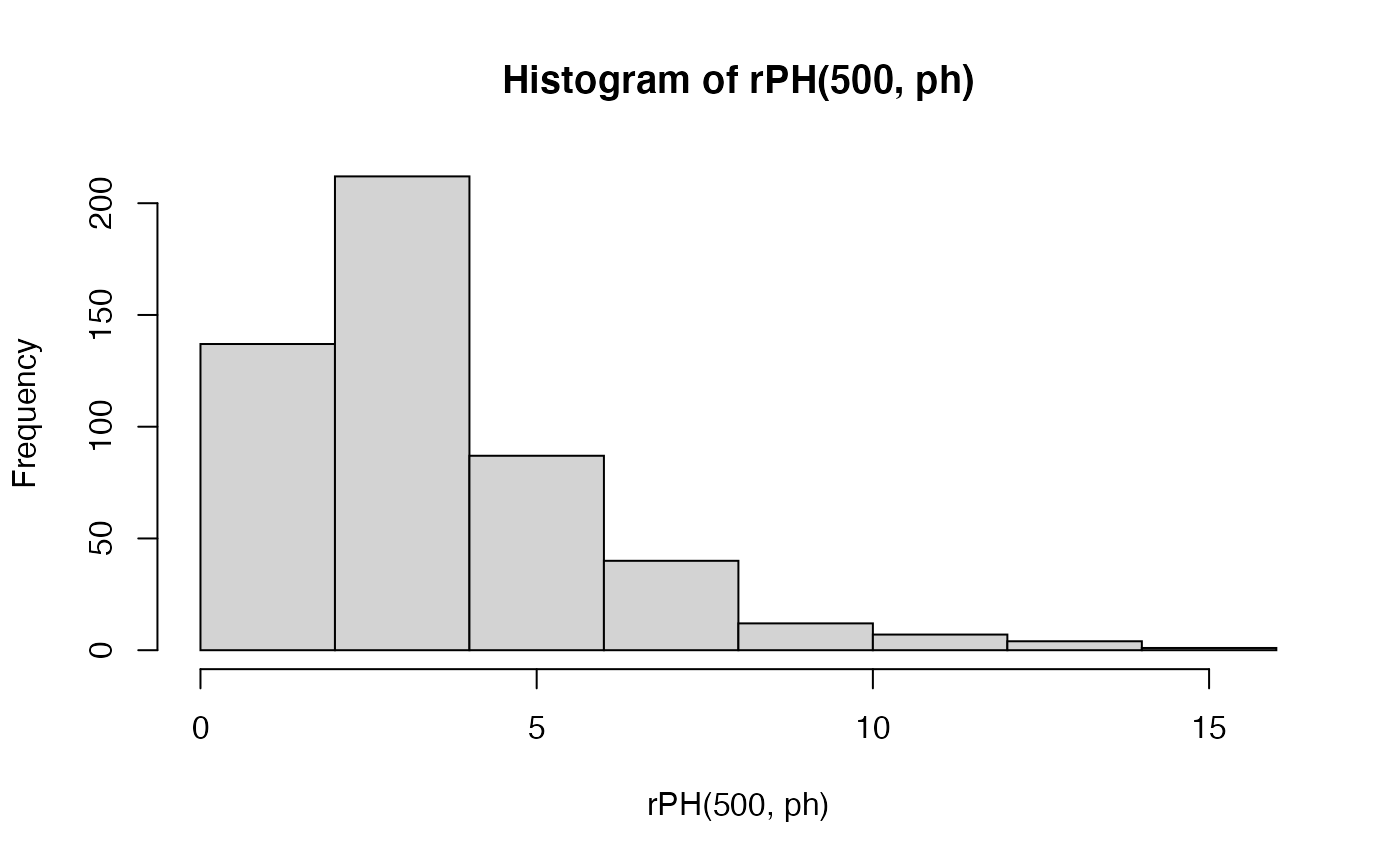
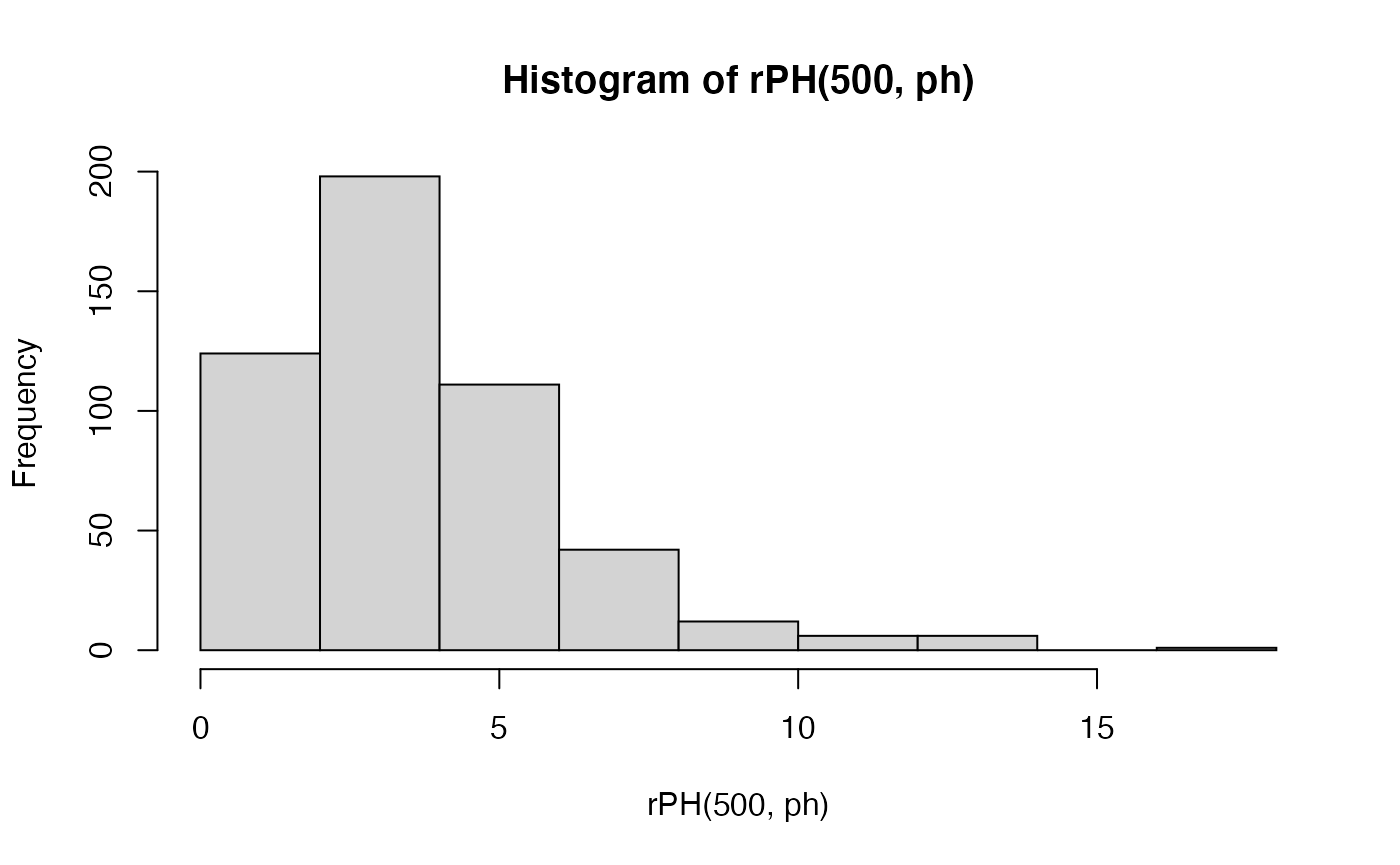
Fix typos and update version number.

diff --git a/docs/articles/a2_pop_gen_iker.html b/docs/articles/a2_pop_gen_iker.html
@@ -31,7 +31,7 @@
       </button>
       <span class="navbar-brand">
         <a class="navbar-link" href="../index.html">PhaseTypeR</a>
-        <span class="version label label-default" data-toggle="tooltip" data-placement="bottom" title="Released version">0.1.0</span>
+        <span class="version label label-default" data-toggle="tooltip" data-placement="bottom" title="Released version">1.0.0</span>
       </span>
     </div>
 
@@ -254,8 +254,8 @@
 <p><span class="math display">\[
 T_{total} = T_{MRCA} \circ [n, n-1, ..., 2]
 \]</span></p>
-<p>Indeed the core of the subintensity matrix for <span class="math inline">\(T_{MRCA}\)</span> and <span class="math inline">\(T_{Total}\)</span> is the same. But when <span class="math inline">\(T_{MRCA}\)</span> measure the time to reach the MRCA, so the length of one branch, <span class="math inline">\(T_{Total}\)</span> will measure the length of all branches. This leads to proceed to a reward transformation of the original subintensity matrix.</p>
-<p>The reward-transformation is a way to give more weights to some states than other. So the first state of the subintensity matrix should have a rate of <span class="math inline">\(n\)</span>, because before any coalescent event there are <span class="math inline">\(n\)</span> lineages, then the second state a rate of <span class="math inline">\(n-1\)</span> and so on.</p>
+<p>Indeed the core of the sub-intensity matrix for <span class="math inline">\(T_{MRCA}\)</span> and <span class="math inline">\(T_{Total}\)</span> is the same. But when <span class="math inline">\(T_{MRCA}\)</span> measure the time to reach the MRCA, so the length of one branch, <span class="math inline">\(T_{Total}\)</span> will measure the length of all branches. This leads to proceed to a reward transformation of the original sub-intensity matrix.</p>
+<p>The reward-transformation is a way to give more weights to some states than other. So the first state of the sub-intensity matrix should have a rate of <span class="math inline">\(n\)</span>, because before any coalescent event there are <span class="math inline">\(n\)</span> lineages, then the second state a rate of <span class="math inline">\(n-1\)</span> and so on.</p>
 <p>Therefore, <span class="math inline">\(T_{total}\)</span> can be represented as a reward-transformed <span class="math inline">\(T_{MRCA}\)</span>, where the reward vector is <span class="math inline">\([n, n-1, ..., 2]\)</span>:</p>
 <div class="sourceCode" id="cb11"><pre class="downlit sourceCode r">
 <code class="sourceCode R"><span class="va">t_total_4_bis</span> <span class="op">&lt;-</span> <span class="fu"><a href="../reference/reward_phase_type.html">reward_phase_type</a></span><span class="op">(</span><span class="va">t_mrca_4</span>, <span class="fu"><a href="https://rdrr.io/r/base/c.html">c</a></span><span class="op">(</span><span class="fl">4</span>, <span class="fl">3</span>, <span class="fl">2</span><span class="op">)</span><span class="op">)</span>
@@ -687,7 +687,7 @@ T_{total} = T_{MRCA} \circ [n, n-1, ..., 2]
 \mathop{\mathbb{E}}[\xi_i]=\mathop{\mathbb{E}}[\mathop{\mathbb{E}}(\xi_i|Y_i)]=
 \mathop{\mathbb{E}}\left[ \frac{\theta}{2}Y_i \right]=\frac{\theta}{2}\mathop{\mathbb{E}}[Y_i]
 \]</span></p>
-<p>Each <span class="math inline">\(Y_i\)</span> can be represented using a univariate phase-type distribution. However, instead of defining each <span class="math inline">\(Y_i\)</span> individually, we can build a multivariate phase-type representation of the coalescent process, such that <span class="math inline">\(Y\sim MPH^*(\alpha, S, R)\)</span>, where <span class="math inline">\(\alpha\)</span> is the initial probability vector, <span class="math inline">\(S\)</span> is the sub-intensity matrix for the coalescent process and <span class="math inline">\(R\)</span> is the reward vector where each of the columns summarizes how the subintensity matrix should be transformed to obtain a phase-type representation of <span class="math inline">\(Y_i\)</span>.</p>
+<p>Each <span class="math inline">\(Y_i\)</span> can be represented using a univariate phase-type distribution. However, instead of defining each <span class="math inline">\(Y_i\)</span> individually, we can build a multivariate phase-type representation of the coalescent process, such that <span class="math inline">\(Y\sim MPH^*(\alpha, S, R)\)</span>, where <span class="math inline">\(\alpha\)</span> is the initial probability vector, <span class="math inline">\(S\)</span> is the sub-intensity matrix for the coalescent process and <span class="math inline">\(R\)</span> is the reward vector where each of the columns summarizes how the sub-intensity matrix should be transformed to obtain a phase-type representation of <span class="math inline">\(Y_i\)</span>.</p>
 <p>For example, when <span class="math inline">\(n=4\)</span>, the sub-intensity matrix for Kingman’s coalescent is:</p>
 <div class="sourceCode" id="cb41"><pre class="downlit sourceCode r">
 <code class="sourceCode R">

diff --git a/docs/articles/a3_phasetypeR_SFS.html b/docs/articles/a3_phasetypeR_SFS.html
@@ -31,7 +31,7 @@
       </button>
       <span class="navbar-brand">
         <a class="navbar-link" href="../index.html">PhaseTypeR</a>
-        <span class="version label label-default" data-toggle="tooltip" data-placement="bottom" title="Released version">0.1.0</span>
+        <span class="version label label-default" data-toggle="tooltip" data-placement="bottom" title="Released version">1.0.0</span>
       </span>
     </div>
 
@@ -208,7 +208,7 @@
 <span class="co"># create rate-matrix and state space for block counting process</span>
 <span class="va">ph_bcp</span> <span class="op">&lt;-</span> <span class="fu">block_counting_process</span><span class="op">(</span><span class="va">n</span><span class="op">)</span>
 
-<span class="co"># Obtain subintensity matrix</span>
+<span class="co"># Obtain sub-intensity matrix</span>
 <span class="va">subintensity_matrix</span> <span class="op">&lt;-</span> <span class="va">ph_bcp</span><span class="op">$</span><span class="va">subint_mat</span>
 <span class="va">rew_mat</span> <span class="op">&lt;-</span> <span class="va">ph_bcp</span><span class="op">$</span><span class="va">reward_mat</span></code></pre></div>
 <p>Next, we simulate random site frequency spectra.</p>
@@ -240,7 +240,7 @@ c_i = \frac{1}{\binom{n}{2}} i (n-i) - \frac{1}{\sum_{i=1}^{n-1} \frac{1}{i}} \,
   \mbox{Exp}[z^{c_1 \xi_1} z^{c_2 \xi_2} \dots z^{c_{n-1} \xi_{n-1}}] =
   \mathbf{e}_1^\ast \left( \lambda \Delta[\mathbf{A}(z^\mathbf{c}- \mathbf{e})] +\mathbf{T}\right)^{-1} \mathbf{T}\mathbf{e}
   =   \mathbf{e}_1^\ast \left( \mathbf{S}+ \lambda \Delta[\mathbf{A}(z^\mathbf{c}] \right)^{-1} \mathbf{T}\mathbf{e}
-\end{align*}\]</span> where <span class="math inline">\(\mathbf{T},\mathbf{A}\)</span> being respectively the subintensity matrix and reward matrix of the block counting process, <span class="math inline">\(\mathbf{e}= (1,1,\dots,1)^\ast\)</span> and <span class="math inline">\(\mathbf{S}= \mathbf{T}- \lambda \Delta \mathbf{A}\mathbf{e}\)</span>.</p>
+\end{align*}\]</span> where <span class="math inline">\(\mathbf{T},\mathbf{A}\)</span> being respectively the sub-intensity matrix and reward matrix of the block counting process, <span class="math inline">\(\mathbf{e}= (1,1,\dots,1)^\ast\)</span> and <span class="math inline">\(\mathbf{S}= \mathbf{T}- \lambda \Delta \mathbf{A}\mathbf{e}\)</span>.</p>
 <p>The next snippet implements the <span class="math inline">\(\phi\)</span>-function</p>
 <div class="sourceCode" id="cb9"><pre class="downlit sourceCode r">
 <code class="sourceCode R"><span class="va">themean</span> <span class="op">&lt;-</span> <span class="fu"><a href="https://rdrr.io/r/base/sum.html">sum</a></span><span class="op">(</span><span class="fu"><a href="../reference/mean.html">mean</a></span><span class="op">(</span><span class="va">ph_bcp</span><span class="op">)</span><span class="op">*</span><span class="va">bc</span><span class="op">)</span> <span class="co">#the mean of the linear combination (should be 0)</span>
@@ -283,7 +283,7 @@ c_i = \frac{1}{\binom{n}{2}} i (n-i) - \frac{1}{\sum_{i=1}^{n-1} \frac{1}{i}} \,
 <div id="figure-5" class="section level2">
 <h2 class="hasAnchor">
 <a href="#figure-5" class="anchor"></a>Figure 5</h2>
-<p>In this section we recreate the bottom two sub-figures of Figure 4, and first we consider the bottom left figure, which displays the CDFs of the <span class="math inline">\(i\)</span>-ton branch-length for <span class="math inline">\(i = 1,2,3,4\)</span>. As described in Section 3, these branch-lengths all have (possibly defective) <span class="math inline">\(PH\)</span> distributions, whose sub-intensity matrix (and possible defect) can be calculated from the subintensity matrix and state-space of the block-counting process, so we first compute these two objects:</p>
+<p>In this section we recreate the bottom two sub-figures of Figure 4, and first we consider the bottom left figure, which displays the CDFs of the <span class="math inline">\(i\)</span>-ton branch-length for <span class="math inline">\(i = 1,2,3,4\)</span>. As described in Section 3, these branch-lengths all have (possibly defective) <span class="math inline">\(PH\)</span> distributions, whose sub-intensity matrix (and possible defect) can be calculated from the sub-intensity matrix and state-space of the block-counting process, so we first compute these two objects:</p>
 <div class="sourceCode" id="cb11"><pre class="downlit sourceCode r">
 <code class="sourceCode R"><span class="va">n</span> <span class="op">&lt;-</span> <span class="fl">5</span>
 

diff --git a/docs/articles/PhaseTypeR.html b/docs/articles/PhaseTypeR.html
@@ -31,7 +31,7 @@
       </button>
       <span class="navbar-brand">
         <a class="navbar-link" href="../index.html">PhaseTypeR</a>
-        <span class="version label label-default" data-toggle="tooltip" data-placement="bottom" title="Released version">0.1.0</span>
+        <span class="version label label-default" data-toggle="tooltip" data-placement="bottom" title="Released version">1.0.0</span>
       </span>
     </div>
 
@@ -316,8 +316,8 @@ F(u) = 1-\boldsymbol{\pi}e^{\boldsymbol{T}u}\boldsymbol{e}, \quad u\ge0.
 <div class="sourceCode" id="cb12"><pre class="downlit sourceCode r">
 <code class="sourceCode R"><span class="fu"><a href="https://rdrr.io/r/base/cat.html">cat</a></span><span class="op">(</span><span class="st">'10 random samples: \n'</span>, <span class="fu"><a href="../reference/PH_functions.html">rPH</a></span><span class="op">(</span><span class="fl">5</span>, <span class="va">ph</span><span class="op">)</span>, <span class="st">'\n'</span>, <span class="fu"><a href="../reference/PH_functions.html">rPH</a></span><span class="op">(</span><span class="fl">5</span>, <span class="va">ph</span><span class="op">)</span><span class="op">)</span>
 <span class="co">#&gt; 10 random samples: </span>
-<span class="co">#&gt;  1.767603 4.795308 5.240958 6.77238 4.274446 </span>
-<span class="co">#&gt;  7.657762 2.726458 13.01616 5.170599 2.083526</span></code></pre></div>
+<span class="co">#&gt;  2.232562 5.196198 1.958385 2.990807 1.528491 </span>
+<span class="co">#&gt;  5.470481 3.886641 3.929332 2.871024 4.453987</span></code></pre></div>
 <p>Here is a histogram of 200 samples from the phase-type distribution:</p>
 <div class="sourceCode" id="cb13"><pre class="downlit sourceCode r">
 <code class="sourceCode R"><span class="fu"><a href="https://rdrr.io/r/graphics/hist.html">hist</a></span><span class="op">(</span><span class="fu"><a href="../reference/PH_functions.html">rPH</a></span><span class="op">(</span><span class="fl">500</span>, <span class="va">ph</span><span class="op">)</span>, breaks <span class="op">=</span> <span class="fl">10</span><span class="op">)</span></code></pre></div>

diff --git a/docs/index.html b/docs/index.html
@@ -31,7 +31,7 @@
       </button>
       <span class="navbar-brand">
         <a class="navbar-link" href="index.html">PhaseTypeR</a>
-        <span class="version label label-default" data-toggle="tooltip" data-placement="bottom" title="Released version">0.1.0</span>
+        <span class="version label label-default" data-toggle="tooltip" data-placement="bottom" title="Released version">1.0.0</span>
       </span>
     </div>
 
@@ -138,7 +138,7 @@
 <div class="sourceCode" id="cb4"><pre class="downlit sourceCode r">
 <code class="sourceCode R"><span class="fu"><a href="reference/PH_functions.html">dPH</a></span><span class="op">(</span><span class="fl">1</span><span class="op">:</span><span class="fl">5</span>, <span class="va">ph</span><span class="op">)</span>
 <span class="co">#&gt; [1] 0.1506327 0.2216989 0.1991321 0.1482987 0.1009037</span></code></pre></div>
-<p>Cummulative density function:</p>
+<p>Cumulative density function:</p>
 <div class="sourceCode" id="cb5"><pre class="downlit sourceCode r">
 <code class="sourceCode R"><span class="fu"><a href="reference/PH_functions.html">pPH</a></span><span class="op">(</span><span class="fl">1</span><span class="op">:</span><span class="fl">5</span>, <span class="va">ph</span><span class="op">)</span>
 <span class="co">#&gt; [1] 0.07030638 0.26728005 0.48232823 0.65658059 0.78032198</span></code></pre></div>

diff --git a/docs/reference/check_phase_type.html b/docs/reference/check_phase_type.html
@@ -73,7 +73,7 @@ building a phase-type object have the right shape." />
       </button>
       <span class="navbar-brand">
         <a class="navbar-link" href="../index.html">PhaseTypeR</a>
-        <span class="version label label-default" data-toggle="tooltip" data-placement="bottom" title="Released version">0.1.0</span>
+        <span class="version label label-default" data-toggle="tooltip" data-placement="bottom" title="Released version">1.0.0</span>
       </span>
     </div>
 

diff --git a/docs/reference/var.html b/docs/reference/var.html
@@ -73,7 +73,7 @@ distributions generated by PH, DPH, MPH and  MDPH." />
       </button>
       <span class="navbar-brand">
         <a class="navbar-link" href="../index.html">PhaseTypeR</a>
-        <span class="version label label-default" data-toggle="tooltip" data-placement="bottom" title="Released version">0.1.0</span>
+        <span class="version label label-default" data-toggle="tooltip" data-placement="bottom" title="Released version">1.0.0</span>
       </span>
     </div>
 

diff --git a/docs/reference/mean.html b/docs/reference/mean.html
@@ -74,7 +74,7 @@ disc_phase_type and mult_cont_phase_type classes." />
       </button>
       <span class="navbar-brand">
         <a class="navbar-link" href="../index.html">PhaseTypeR</a>
-        <span class="version label label-default" data-toggle="tooltip" data-placement="bottom" title="Released version">0.1.0</span>
+        <span class="version label label-default" data-toggle="tooltip" data-placement="bottom" title="Released version">1.0.0</span>
       </span>
     </div>
 

diff --git a/docs/reference/generator_functions.html b/docs/reference/generator_functions.html
@@ -74,7 +74,7 @@ different phase-type distributions." />
       </button>
       <span class="navbar-brand">
         <a class="navbar-link" href="../index.html">PhaseTypeR</a>
-        <span class="version label label-default" data-toggle="tooltip" data-placement="bottom" title="Released version">0.1.0</span>
+        <span class="version label label-default" data-toggle="tooltip" data-placement="bottom" title="Released version">1.0.0</span>
       </span>
     </div>
 

diff --git a/docs/reference/reward_phase_type.html b/docs/reference/reward_phase_type.html
@@ -73,7 +73,7 @@ non-negative reward vector." />
       </button>
       <span class="navbar-brand">
         <a class="navbar-link" href="../index.html">PhaseTypeR</a>
-        <span class="version label label-default" data-toggle="tooltip" data-placement="bottom" title="Released version">0.1.0</span>
+        <span class="version label label-default" data-toggle="tooltip" data-placement="bottom" title="Released version">1.0.0</span>
       </span>
     </div>
 

diff --git a/docs/reference/phase_type_to_network.html b/docs/reference/phase_type_to_network.html
@@ -73,7 +73,7 @@ igraph graph object." />
       </button>
       <span class="navbar-brand">
         <a class="navbar-link" href="../index.html">PhaseTypeR</a>
-        <span class="version label label-default" data-toggle="tooltip" data-placement="bottom" title="Released version">0.1.0</span>
+        <span class="version label label-default" data-toggle="tooltip" data-placement="bottom" title="Released version">1.0.0</span>
       </span>
     </div>
 

diff --git a/docs/reference/check_reward.html b/docs/reference/check_reward.html
@@ -73,7 +73,7 @@ matrix is correct." />
       </button>
       <span class="navbar-brand">
         <a class="navbar-link" href="../index.html">PhaseTypeR</a>
-        <span class="version label label-default" data-toggle="tooltip" data-placement="bottom" title="Released version">0.1.0</span>
+        <span class="version label label-default" data-toggle="tooltip" data-placement="bottom" title="Released version">1.0.0</span>
       </span>
     </div>
 

diff --git a/docs/reference/perm.html b/docs/reference/perm.html
@@ -73,7 +73,7 @@ numeric vector." />
       </button>
       <span class="navbar-brand">
         <a class="navbar-link" href="../index.html">PhaseTypeR</a>
-        <span class="version label label-default" data-toggle="tooltip" data-placement="bottom" title="Released version">0.1.0</span>
+        <span class="version label label-default" data-toggle="tooltip" data-placement="bottom" title="Released version">1.0.0</span>
       </span>
     </div>
 
